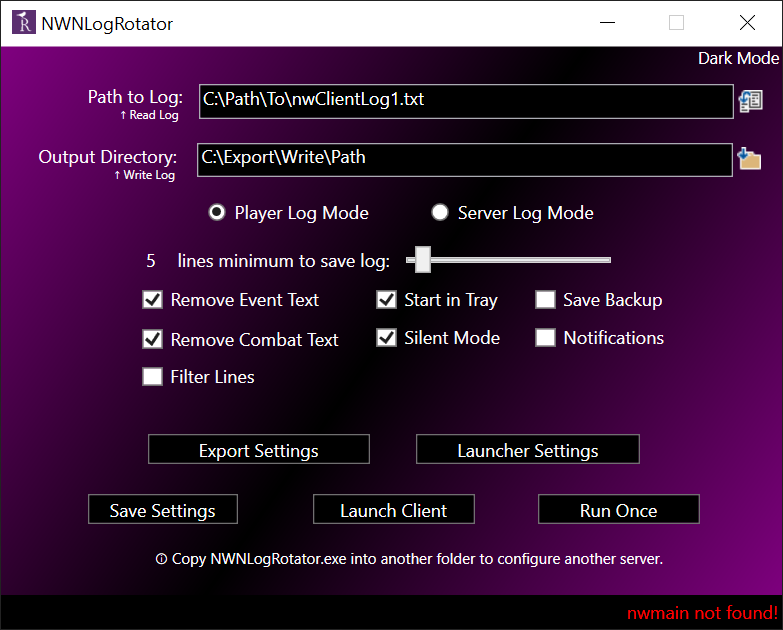
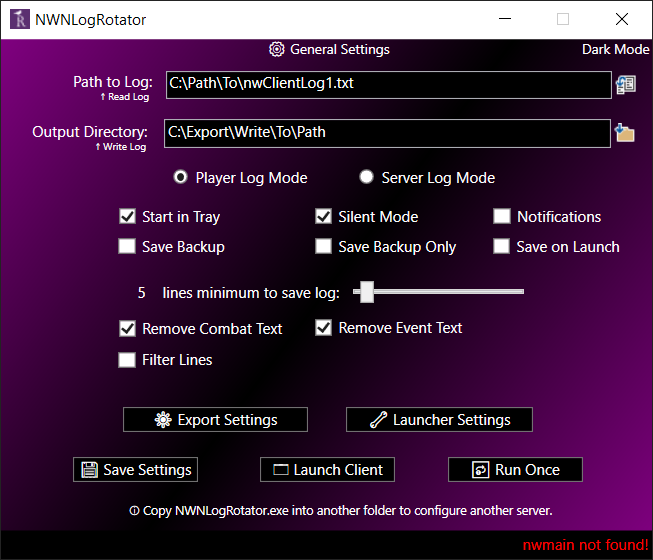
v1.0 release

Changed region(s): [[0.0, 0.0, 1.0, 1.0]]

diff --git a/NWNLogRotator.xaml b/NWNLogRotator.xaml
@@ -47,7 +47,7 @@
     <Button x:Name="RunOnceButton" Content="🔂 Run Once" Grid.Column="2" HorizontalAlignment="Left" Margin="299.6,140.4,0,0" VerticalAlignment="Top" Width="108" RenderTransformOrigin="2.04,0.867" Click="Button_Click_Run_Once" Grid.Row="1"/>
     <CheckBox x:Name="TrayCheckBox" Content="Start in Tray" Grid.Column="2" HorizontalAlignment="Right" Margin="0,134,351.4,0" VerticalAlignment="Top" RenderTransformOrigin="0.618,0.109" Height="15"/>
     <CheckBox x:Name="SilentCheckBox" Content="Silent Mode" Grid.Column="2" Margin="0,134,191.4,0" VerticalAlignment="Top" RenderTransformOrigin="0.618,0.109" HorizontalAlignment="Right" Width="85" Height="19"/>
-    <CheckBox x:Name="SaveBackupCheckBox" Content="Save Backup" Grid.Column="2" HorizontalAlignment="Right" Margin="0,158,347.4,0" VerticalAlignment="Top" RenderTransformOrigin="0.618,0.109" Height="15"/>
+    <CheckBox x:Name="SaveBackupCheckBox" Content="Save Backup" Grid.Column="2" HorizontalAlignment="Right" Margin="0,158,347.4,0" VerticalAlignment="Top" RenderTransformOrigin="0.618,0.109"  Unchecked="SaveBackupCheckBox_Unchecked" Height="15"/>
     <CheckBox x:Name="NotificationsCheckBox" Content="Notifications" Grid.Column="2" HorizontalAlignment="Right" Margin="0,134,46.4,0" VerticalAlignment="Top" RenderTransformOrigin="0.341,0.609" Height="19"/>
     <CheckBox x:Name="FilterLinesCheckBox" Content="Filter Lines" HorizontalAlignment="Right" Margin="0,55.4,357.4,0" VerticalAlignment="Top" RenderTransformOrigin="0.341,0.609" Unchecked="FilterLinesCheckBox_Unchecked" Checked="FilterLinesCheckBox_Checked" Grid.Column="2" Height="20" Grid.Row="1" />
     <Label x:Name="HintLabel" Content="ⓘ Copy NWNLogRotator.exe into another folder to configure another server." HorizontalAlignment="Left" Margin="39.6,171.4,0,0" VerticalAlignment="Top" RenderTransformOrigin="0.44,2.721" Width="353" Height="27" Grid.Row="1" FontSize="10" Grid.Column="2" />
@@ -56,6 +56,6 @@
     <Button x:Name="LauncherConfigurationButton" Content="🔧 Launcher Settings" Grid.Column="2" HorizontalAlignment="Left" Margin="218.6,100.4,0,0" VerticalAlignment="Top" Width="149" Click="Button_Click_Launcher_Settings" Grid.Row="1"/>
         <CheckBox x:Name="SaveBackupOnlyCheckBox" Content="Save Backup Only" Grid.Column="2" HorizontalAlignment="Right" Margin="0,158,162.4,0" VerticalAlignment="Top" Checked="SaveBackupOnlyCheckBox_Checked" RenderTransformOrigin="0.618,0.109" Height="15"/>
     <CheckBox x:Name="SaveOnLaunchCheckBox" Content="Save on Launch" Grid.Column="2" HorizontalAlignment="Right" Margin="0,158,31.4,0" VerticalAlignment="Top" RenderTransformOrigin="0.618,0.109" Height="15"/>
-    <Label Content="⚙ General Settings" HorizontalAlignment="Left" Margin="150.6,-5,0,0" VerticalAlignment="Top" Grid.Column="2" FontSize="11"/>
+    <Label x:Name="GeneralSettingsLabel" Content="⚙ General Settings" HorizontalAlignment="Left" Margin="150.6,-5,0,0" VerticalAlignment="Top" Grid.Column="2" FontSize="11"/>
   </Grid>
 </Window>

diff --git a/NWNLogRotator.xaml.cs b/NWNLogRotator.xaml.cs
@@ -1,8 +1,8 @@
 /*  
-    *  Author:   © Notsigma
+    *  Author:   © noblesigma
     *  Project:  NWNLogRotator
-    *  GitHub:   https://github.com/notsigma/NWNLogRotator
-    *  Date:     10/27/2020
+    *  GitHub:   https://github.com/noblesigma/NWNLogRotator
+    *  Date:     3/3/2021
     *  License:  MIT
     *  Purpose:  This program is designed used alongside the Neverwinter Nights game, either Enhanced Edition, or 1.69.
     *  This program does not come with a warranty. Any support may be found on the GitHub page.
@@ -405,6 +405,7 @@ namespace NWNLogRotator
             HintLabel.Foreground = new SolidColorBrush(Colors.White);
             PathHelperLabel.Foreground = new SolidColorBrush(Colors.White);
             OutputHelperLabel.Foreground = new SolidColorBrush(Colors.White);
+            GeneralSettingsLabel.Foreground = new SolidColorBrush(Colors.White);
 
             /*
              * Transformations
@@ -467,6 +468,7 @@ namespace NWNLogRotator
             HintLabel.Foreground = new SolidColorBrush(Colors.Black);
             PathHelperLabel.Foreground = new SolidColorBrush(Colors.Black);
             OutputHelperLabel.Foreground = new SolidColorBrush(Colors.Black);
+            GeneralSettingsLabel.Foreground = new SolidColorBrush(Colors.Black);
 
             /*
              * Transformations
@@ -677,6 +679,11 @@ namespace NWNLogRotator
         {
             if (MinimumRowsCountTextBlock != null)
                 MinimumRowsCountTextBlock.Text = e.NewValue.ToString();
+        }
+
+        private void SaveBackupCheckBox_Unchecked(object sender, RoutedEventArgs e)
+        {
+            SaveBackupOnlyCheckBox.IsChecked = false;
         }
 
         private void SaveBackupOnlyCheckBox_Checked(object sender, RoutedEventArgs e)

diff --git a/LauncherConfiguration.xaml.cs b/LauncherConfiguration.xaml.cs
@@ -1,4 +1,14 @@
-using NWNLogRotator.Classes;
+/*  
+    *  Author:   © noblesigma
+    *  Project:  NWNLogRotator
+    *  GitHub:   https://github.com/noblesigma/NWNLogRotator
+    *  Date:     3/3/2021
+    *  License:  MIT
+    *  Purpose:  This program is designed used alongside the Neverwinter Nights game, either Enhanced Edition, or 1.69.
+    *  This program does not come with a warranty. Any support may be found on the GitHub page.
+*/
+
+using NWNLogRotator.Classes;
 using System.Windows;
 using System.Windows.Controls;
 using System.Windows.Input;
@@ -83,7 +93,6 @@ namespace NWNLogRotator
             /*
              * Background
             */
-            PathToClientLabel.Background = Brushes.White;
             PathToClientTextBox.Background = Brushes.White;
             ServerAddressTextBox.Background = Brushes.White;
             ServerPasswordTextBox.Background = Brushes.White;

diff --git a/Properties/AssemblyInfo.cs b/Properties/AssemblyInfo.cs
@@ -8,7 +8,7 @@ using System.Windows;
 [assembly: AssemblyTitle("NWNLogRotator")]
 [assembly: AssemblyDescription("Transforms and parses any Neverwinter Nights chat log into beautiful HTML. Written in C# .NET. NWNLogRotator is both Enhanced Edition and 1.69 compatible.")]
 [assembly: AssemblyConfiguration("")]
-[assembly: AssemblyCompany("notsigma")]
+[assembly: AssemblyCompany("noblesigma")]
 [assembly: AssemblyProduct("NWNLogRotator")]
 [assembly: AssemblyCopyright("Copyright ©  2020")]
 [assembly: AssemblyTrademark("")]
@@ -49,5 +49,5 @@ using System.Windows;
 // You can specify all the values or you can default the Build and Revision Numbers
 // by using the '*' as shown below:
 // [assembly: AssemblyVersion("1.0.*")]
-[assembly: AssemblyVersion("0.0.8.5")]
-[assembly: AssemblyFileVersion("0.0.8.5")]
+[assembly: AssemblyVersion("0.1.0.0")]
+[assembly: AssemblyFileVersion("0.1.0.0")]

diff --git a/ExportConfiguration.xaml.cs b/ExportConfiguration.xaml.cs
@@ -1,4 +1,14 @@
-using NWNLogRotator.Classes;
+/*  
+    *  Author:   © noblesigma
+    *  Project:  NWNLogRotator
+    *  GitHub:   https://github.com/noblesigma/NWNLogRotator
+    *  Date:     3/3/2021
+    *  License:  MIT
+    *  Purpose:  This program is designed used alongside the Neverwinter Nights game, either Enhanced Edition, or 1.69.
+    *  This program does not come with a warranty. Any support may be found on the GitHub page.
+*/
+
+using NWNLogRotator.Classes;
 using System.Windows;
 using System.Windows.Controls;
 using System.Windows.Media;

diff --git a/Classes/Notification.cs b/Classes/Notification.cs
@@ -1,4 +1,14 @@
-using System.Reflection;
+/*  
+    *  Author:   © noblesigma
+    *  Project:  NWNLogRotator
+    *  GitHub:   https://github.com/noblesigma/NWNLogRotator
+    *  Date:     3/3/2021
+    *  License:  MIT
+    *  Purpose:  This program is designed used alongside the Neverwinter Nights game, either Enhanced Edition, or 1.69.
+    *  This program does not come with a warranty. Any support may be found on the GitHub page.
+*/
+
+using System.Reflection;
 using System.Windows.Forms;
 
 namespace NWNLogRotator.Classes

diff --git a/Classes/LogParser.cs b/Classes/LogParser.cs
@@ -1,4 +1,14 @@
-using System;
+/*  
+    *  Author:   © noblesigma
+    *  Project:  NWNLogRotator
+    *  GitHub:   https://github.com/noblesigma/NWNLogRotator
+    *  Date:     3/3/2021
+    *  License:  MIT
+    *  Purpose:  This program is designed used alongside the Neverwinter Nights game, either Enhanced Edition, or 1.69.
+    *  This program does not come with a warranty. Any support may be found on the GitHub page.
+*/
+
+using System;
 using System.Collections.Generic;
 using System.IO;
 using System.Linq;

diff --git a/Classes/Settings.cs b/Classes/Settings.cs
@@ -1,4 +1,14 @@
-namespace NWNLogRotator.Classes
+/*  
+    *  Author:   © noblesigma
+    *  Project:  NWNLogRotator
+    *  GitHub:   https://github.com/noblesigma/NWNLogRotator
+    *  Date:     3/3/2021
+    *  License:  MIT
+    *  Purpose:  This program is designed used alongside the Neverwinter Nights game, either Enhanced Edition, or 1.69.
+    *  This program does not come with a warranty. Any support may be found on the GitHub page.
+*/
+
+namespace NWNLogRotator.Classes
 {
     public class Settings
     {

diff --git a/Classes/FileHandler.cs b/Classes/FileHandler.cs
@@ -1,4 +1,14 @@
-using System;
+/*  
+    *  Author:   © noblesigma
+    *  Project:  NWNLogRotator
+    *  GitHub:   https://github.com/noblesigma/NWNLogRotator
+    *  Date:     3/3/2021
+    *  License:  MIT
+    *  Purpose:  This program is designed used alongside the Neverwinter Nights game, either Enhanced Edition, or 1.69.
+    *  This program does not come with a warranty. Any support may be found on the GitHub page.
+*/
+
+using System;
 using System.IO;
 using System.Linq;
 using System.Windows;

diff --git a/README.md b/README.md
@@ -1,15 +1,15 @@
 # NWNLogRotator
 Use this NWN Log Rotator to colorize, clean, and automatically save Neverwinter Nights chat logs into beautiful HTML. Enhanced Edition and 1.69 compatible.
-##### <a href="http://htmlpreview.github.io/?https://github.com/notsigma/NWNLogRotator-Node.js/blob/master/output/NWNLogExample.html">Click here</a> for an example of a parsed log. 
+##### <a href="http://htmlpreview.github.io/?https://github.com/noblesigma/NWNLogRotator-Node.js/blob/master/output/NWNLogExample.html">Click here</a> for an example of a parsed log. 
 ##### <a href="https://www.youtube.com/watch?v=gspLCJM7JuU">Click here</a> to see a usage video.
 
 # Download
-Latest version can be found <a href="https://github.com/notsigma/NWNLogRotator/releases/latest">here</a>.
+Latest version can be found <a href="https://github.com/noblesigma/NWNLogRotator/releases/latest">here</a>.
 
 # Screenshots
-![Screenshot of NWNLogRotator main would be here](https://raw.githubusercontent.com/notsigma/NWNLogRotator/master/Assets/Images/screenshot_nwnlr1.png)
-![Screenshot of NWNLogRotator export would be here](https://raw.githubusercontent.com/notsigma/NWNLogRotator/master/Assets/Images/screenshot_nwnlr2.png)
-![Screenshot of NWNLogRotator launcher would be here](https://raw.githubusercontent.com/notsigma/NWNLogRotator/master/Assets/Images/screenshot_nwnlr3.png)
+![Screenshot of NWNLogRotator main would be here](https://raw.githubusercontent.com/noblesigma/NWNLogRotator/master/Assets/Images/screenshot_nwnlr1.png)
+![Screenshot of NWNLogRotator export would be here](https://raw.githubusercontent.com/noblesigma/NWNLogRotator/master/Assets/Images/screenshot_nwnlr2.png)
+![Screenshot of NWNLogRotator launcher would be here](https://raw.githubusercontent.com/noblesigma/NWNLogRotator/master/Assets/Images/screenshot_nwnlr3.png)
 
 # Automation (How it works)
 While open, NWNLogRotator will process new logs automatically based on the status of whether Neverwinter Nights is running. Configure the directories to match with your Neverwinter Nights default log storage, and it will process them automatically.
